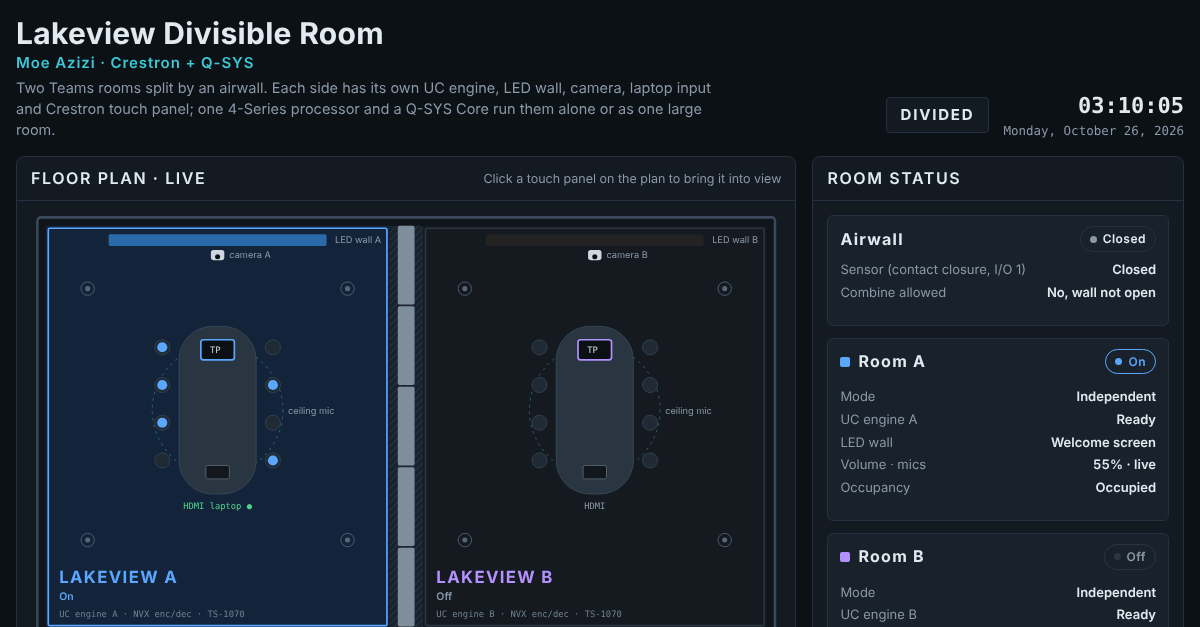
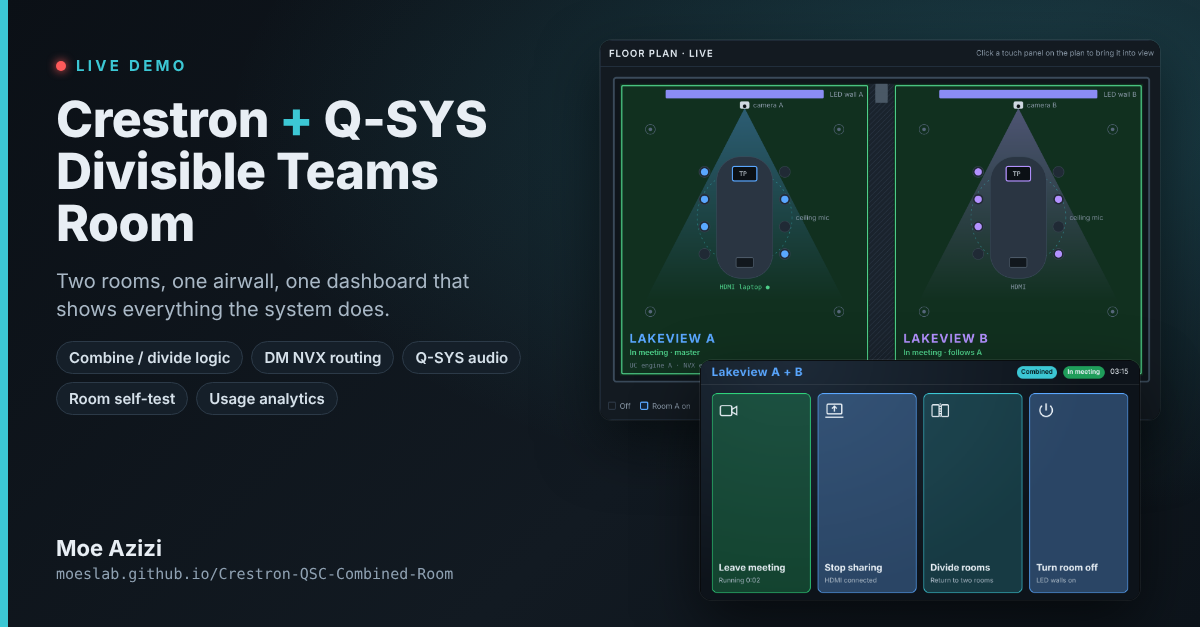
New cover image for link previews; fix panel tile labels

diff --git a/index.html b/index.html
@@ -119,8 +119,8 @@ svg.plan { width: 100%; min-width: 560px; display: block; }
 .tile:hover { background: rgba(255,255,255,.1); }
 .tile:disabled { opacity: .35; cursor: not-allowed; }
 .tile .ic { width: 3.6em; height: 3.6em; }
-.tile .tt { font-size: 1.7em; font-weight: 700; line-height: 1.15; }
-.tile .st { font-size: 1.2em; color: #a9b7c4; margin-top: .3em; }
+.tile .tt { display: block; font-size: 1.7em; font-weight: 700; line-height: 1.15; }
+.tile .st { display: block; font-size: 1.2em; color: #a9b7c4; margin-top: .3em; }
 .tile.on { background: color-mix(in srgb, var(--tpc) 30%, rgba(255,255,255,.04)); box-shadow: inset 0 0 0 .14em var(--tpc); }
 .tile.call.on { background: rgba(31,157,90,.35); box-shadow: inset 0 0 0 .14em #2fd27b; }
 .tile.comb.on { background: color-mix(in srgb, var(--accent) 22%, transparent); box-shadow: inset 0 0 0 .14em var(--accent); }
